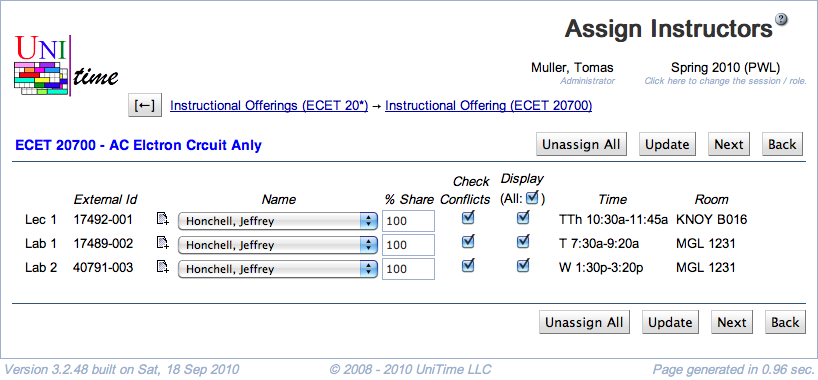
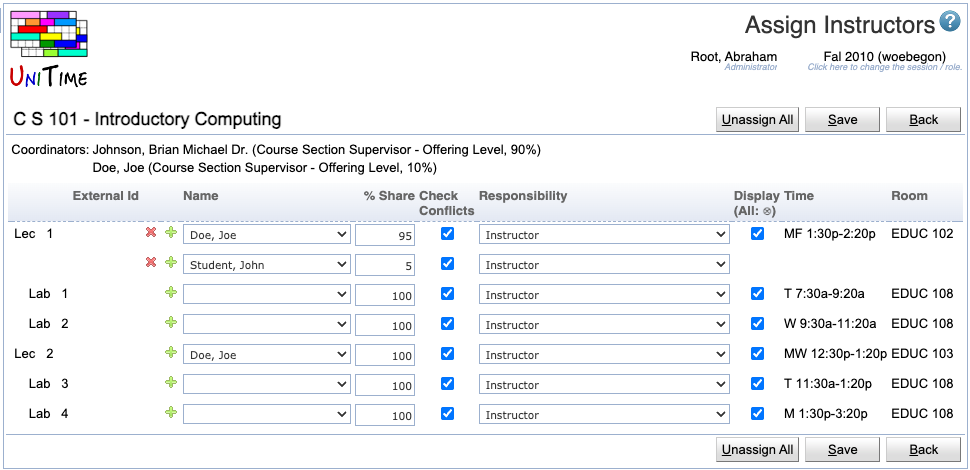
Assign Instructors
- new screenshots, new fields, text cleanup

Changed region(s): [[0.0, 0.0, 1.0, 1.0], [0.1528, 0.8684, 0.1834, 0.8974]]

diff --git a/assign-instructors.md b/assign-instructors.md
@@ -13,59 +13,63 @@ In Assign Instructors, you can enter instructor names for each of the classes an
 ## Details
 There is a line (or more) for each class of that configuration of the instructional offering.
 
-* **Trashbin icon**
-	* Displayed only if there is more than one instructor for a given class
-	* Click here to delete an instructor for a given class
+* ![Delete](images/icon-delete.png) cross icon
+    * Displayed only if there is more than one instructor for a given class
+    * Click here to delete an instructor for a given class
 
-* **Plus icon**
-	* Click here to add another instructor for this class
+* ![Add](images/icon-add.png) plus icon
+    * Click here to add another instructor for this class
 
 * **Name**
-	* Pick instructor's name from the list; the list is the same as the one you can see in the [Instructors](instructors) screen (and from which you select the instructor in the [Edit Class](edit-class) screen)
-	* If you do not see an instructor in this list who should be assigned to a class, you need to add this person in [Instructors](instructors)
+    * Pick the instructor's name from the list; the list is the same as the one you can see in the [Instructors](instructors) screen (and from which you select the instructor in the [Edit Class](edit-class) screen)
+    * If you do not see an instructor in this list who should be assigned to a class, you need to add this person in [Instructors](instructors)
 
 * **% Share**
-	* Indicates the percentage of teaching activity for this class associated with this instructor
-	* Used in official instructional reporting
-	* The total for a class (if there are e.g. more instructors per class) should be 100
+    * Indicates the percentage of teaching activity for this class associated with this instructor
+    * Used in official instructional reporting
+    * The total for a class (if there are, e.g., more instructors per class) should be 100
 
 * **Check conflicts**
-	* When checked (and it is checked by default), the instructor's preferences are considered during departmental timetabling; also, checks are performed for this instructor to make sure that this person does not have conflicting teaching assignments (i.e., he/she is not teaching another class at the same time)
-	* When not checked, the instructor's association with this class is ignored during timetabling, no conflicts will be discovered between this class and his/her other classes
+    * When checked (and it is checked by default), the instructor's preferences are considered during departmental timetabling; also, checks are performed for this instructor to make sure that this person does not have conflicting teaching assignments (i.e., they are not teaching another class at the same time)
+    * When not checked, the instructor's association with this class is ignored during timetabling; no conflicts will be discovered between this class and their other classes
+
+* **Responsibility**
+    * When teaching responsibilities are defined, an instructor's teaching responsibility can be selected/changed here.
+    * Teaching responsibilities can be defined on the [Teaching Responsibilities](teaching-responsibilities) page in the administration.
 
 * **Display**
-	* When checked (and it is checked by default), the instructor will be displayed in the online Schedule of Classes
-	* When not checked, the instructor will not be displayed in the online Schedule of Classes - the instructors not to be displayed are in italics wherever the appropriate classes are listed ([Instructional Offerings](instructional-offerings), [Instructional Offering Detail](instructional-offering-detail), [Scheduling Subpart Detail](scheduling-subpart-detail), [Classes](classes), ...)
-	* **All** - check or uncheck for all classes
+    * When checked (and it is checked by default), the instructor will be displayed in the online Schedule of Classes
+    * When not checked, the instructor will not be displayed in the online Schedule of Classes - the instructors not to be displayed are in italics wherever the appropriate classes are listed ([Instructional Offerings](instructional-offerings), [Instructional Offering Detail](instructional-offering-detail), [Scheduling Subpart Detail](scheduling-subpart-detail), [Classes](classes), ...)
+    * Click the column name to **Select All** (check all the display toggles) or *Clear Selection** (uncheck all the display toggles).
 
 * **Time**
-	* Time assigned to this class during timetabling
-	* Displayed only if there is a timetable (the loaded timetable is used; if no timetable is loaded, the selected one is used; if no timetable is selected, the committed one is used)
+    * Time assigned to this class during timetabling
+    * Displayed only if there is a timetable (the loaded timetable is used; if no timetable is loaded, the selected one is used; if no timetable is selected, the committed one is used)
 
 * **Room**
-	* Room assigned to this class during timetabling
-	* Displayed only if there is a timetable (the loaded timetable is used; if no timetable is loaded, the selected one is used; if no timetable is selected, the committed one is used)
+    * Room assigned to this class during timetabling
+    * Displayed only if there is a timetable (the loaded timetable is used; if no timetable is loaded, the selected one is used; if no timetable is selected, the committed one is used)
 
 * **Funding Department**
-	* The department providing funding for this class.
-	* This field is not visible by default.  To enable this field the unitime.courses.funding_departments_enabled application property must be set to true.
+    * The department providing funding for this class.
+    * This field is not visible by default.  To enable this field, the `unitime.courses.funding_departments_enabled` application property must be set to `true`.
 
 ## Operations
 
 * **Unassign All**
-	* Unassign all instructors, save, and go back to the [Instructional Offering Detail](instructional-offering-detail) screen
+    * Unassign all instructors, save, and go back to the [Instructional Offering Detail](instructional-offering-detail) screen
 
 * **Update** (Alt+U)
-	* Save changes and go back to the [Instructional Offering Detail](instructional-offering-detail) screen
+    * Save changes and go back to the [Instructional Offering Detail](instructional-offering-detail) screen
 
 * **Previous** (Alt+P)
-	* Save changes and go to the Assign Instructors screen for the previous instructional offering (configuration)
-	* The button is displayed only if there is a "previous" instructional offering (configuration) to go to
+    * Save changes and go to the Assign Instructors screen for the previous instructional offering (configuration)
+    * The button is displayed only if there is a "previous" instructional offering (configuration) to go to
 
 * **Next** (Alt+N)
-	* Save changes and go to the Assign Instructors screen for the next instructional offering (configuration)
-	* The button is displayed only if there is a "next" instructional offering (configuration) to go to
+    * Save changes and go to the Assign Instructors screen for the next instructional offering (configuration)
+    * The button is displayed only if there is a "next" instructional offering (configuration) to go to
 
 * **Back** (Alt+B)
-	* Go back to the [Instructional Offering Detail](instructional-offering-detail) screen without saving any changes
+    * Go back to the [Instructional Offering Detail](instructional-offering-detail) screen without saving any changes
 
